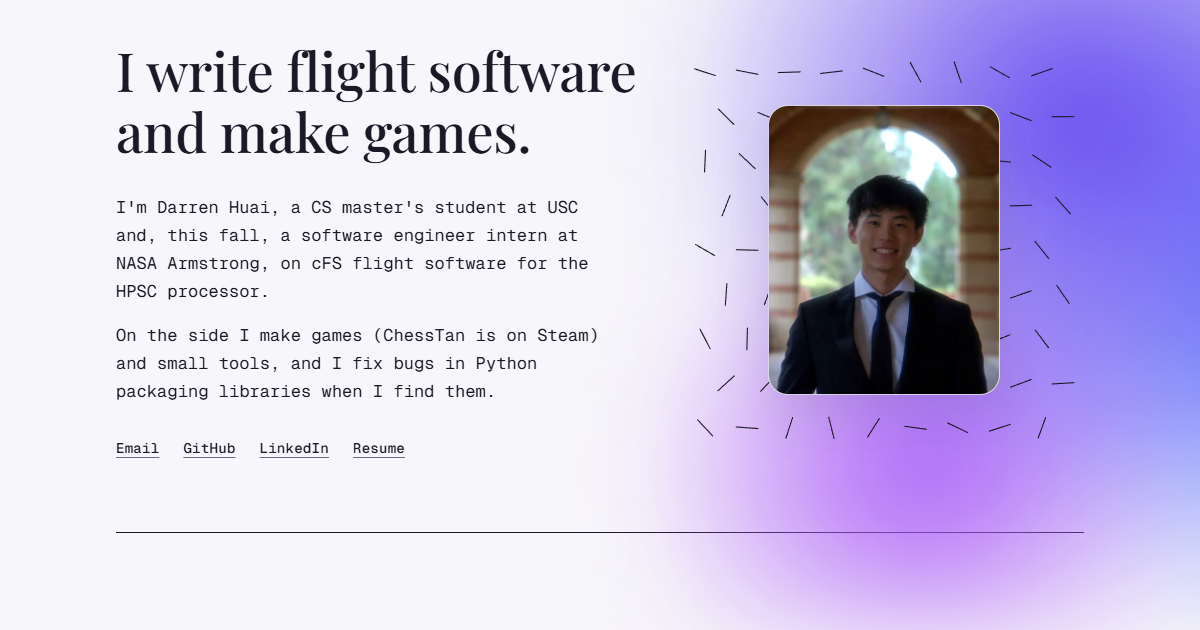
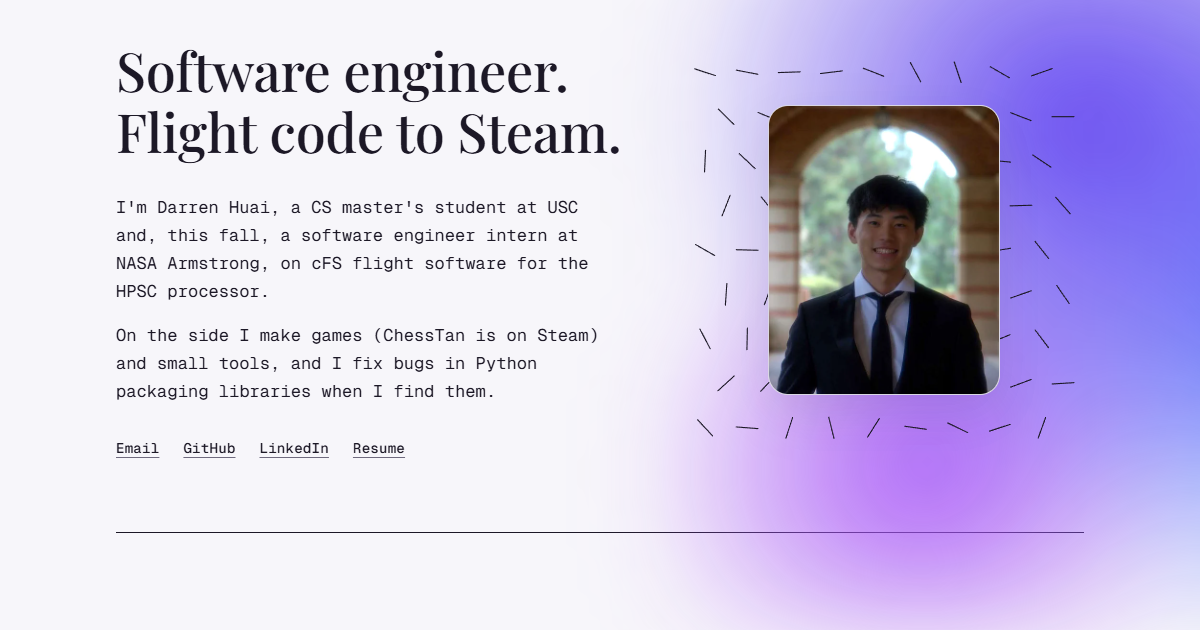
Lead with the role: Software engineer. Flight code to Steam.

Changed region(s): [[0.0925, 0.0603, 0.5242, 0.2714]]

diff --git a/index.html b/index.html
@@ -71,7 +71,7 @@
       <div class="sheet">
         <div class="hero-grid">
           <div class="hero-copy">
-            <h1 id="hero-title">I write flight software<br>and make games.</h1>
+            <h1 id="hero-title">Software engineer.<br>Flight code to Steam.</h1>
             <div class="hero-text">
               <p>I'm Darren Huai, a CS master's student at USC and, this fall, a software engineer intern at NASA Armstrong, on cFS flight software for the HPSC processor.</p>
               <p>On the side I make games (ChessTan is on Steam) and small tools, and I fix bugs in Python packaging libraries when I find them.</p>

diff --git a/docs/design/2026-09-29-redesign-spec.md b/docs/design/2026-09-29-redesign-spec.md
@@ -757,7 +757,7 @@ Darren pointed at arlenmccluskey.com: "could you just copy it, but with my purpl
 
 Three reviewers (fidelity to the reference, AI tells, correctness) read the rebuild. Applied:
 - A rule written for the hover clips (`.plate > video`) also hid the trailer and the demo on the project pages; it is now scoped to `[data-hover-video]`.
-- The greeting was the reference's line with two words swapped; it is now his own: "I write flight software and make games." The bold phrases in the hero paragraphs went.
+- The greeting was the reference's line with two words swapped; it is now his own: "Software engineer. Flight code to Steam." The bold phrases in the hero paragraphs went.
 - Row titles no longer wrap to three lines: no 16ch cap, 40px at 1440, the row head at 3/5 and the plate a real 440px from 1024px up; the work rows lost their serif taglines and the "View project" cue, and the stack line moved under the plate as a caption. The experience rows carry the start year in the index slot instead of a second 01 to 04.
 - Section heads are running heads with a rule (2rem) so the rows carry the page; section air trimmed.
 - The hero wash now rises behind the nav instead of being cut flat under it; the sign-off wash bleeds off the left edge and under the footer, and the dot grid became a still frame of the tick field (his motif) over it. The sign-off name sits on one line with a dated fact under it.
